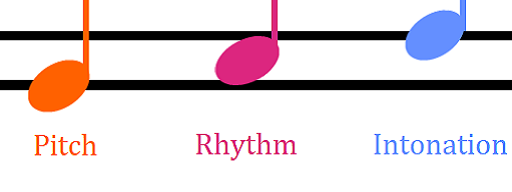
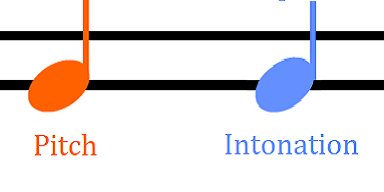
Help/home page text changed, rhythm removed from key

diff --git a/src/components/helppage.tsx b/src/components/helppage.tsx
@@ -26,24 +26,28 @@ export function HelpPage({
     return (
         <div>
             <h2>Welcome to the Help Page!</h2>
-            <div style={{margin: "10px", padding: "10px", backgroundColor: "#fcfcd2", borderRadius: "10px"}}>This site is meant to help students practice their music reading and listening capabilities.<br/>
-                On the Exercises page, you'll find a list of all the exercises currently uploaded to the site.<br/>
-                You can use the "tags" and "difficulty" fields to sort and find the right exercise.<br/>
-                After finding the right one, simply click the exercise to open it!<br/>
-                A piece of score and an audio player will show up. The score will always be correct.<br/>
-                Your job is to click the notes on the score where you think an error is present in the sound. <br/>
-                Click a note multiple times to change which type of error you believe is present.<br/>
-                A key will be present on each exercise to remind you which color corresponds to which error.<br/>
-                This key is also included here: <br/>
+            <div style={{margin: "10px", padding: "10px", backgroundColor: "#fcfcd2", borderRadius: "10px"}}>
+            This site is meant to help you practice your error detection skills.<br/>
+            On the Exercises page, you’ll find a list the exercises currently uploaded to the site. <br/>
+            You can use the different filters to sort and find appropriately challenging exercises for you (e.g. if you are new to this, consider starting with: intonation + 1 voice + level 1 + drone). <br/>
+            Clicking on the “drone” checkbox will find exercises that have a drone on tonic. <br/>
+            Clicking on the “ensemble parts” checkbox will have multiple voices/instruments performing the same part (e.g., 3 different clarinets playing the top line, one of which will perform the error(s)). <br/>
+            After finding some exercises, simply click the exercise to open it! <br/>
+            A short excerpt of a score and an audio player will show up. Assume that the score will always be correct. <br/>
+            The Audio file will play a short intro (2 bars long) to let you entrain to the key, tempo, and meter (you can move the cursor to skip past this if you don’t need it). <br/>
+            Your job is to click on the notes where you hear something different from what is in the score. <br/>
+            Click a note multiple times to change which type of error you hear. <br/>
+            A key will be present on each exercise to remind you which color corresponds to which kind of error.<br/>
+            This key is also included here: <br/>
                 <div>
                     <img
                     alt="note-color-key"
                     src={noteKey}
-                    width="300"
-                    height="112"
+                    width="250"
+                    height="125"
                     />
                 </div>
-                After selecting all errors, click "Check Answers" to receive feedback.<br/>
+            After selecting all errors, click "Check Answers" to receive feedback on how you did.<br/>
             </div>
             <div style={{margin: "6px"}}>
                 <input id="mng-pwd" placeholder="Enter admin password..."></input>

diff --git a/src/components/exercise.tsx b/src/components/exercise.tsx
@@ -533,7 +533,7 @@ export function Exercise({
                 <img
                     alt="note-color-key"
                     src={noteKey}
-                    width="20%"
+                    width="14%"
                     height="7%"
                     style={{display:"inline", marginLeft:"1vw"}}
                 />
@@ -565,7 +565,7 @@ export function Exercise({
                 <img
                     alt="note-color-key"
                     src={noteKey}
-                    width="20%"
+                    width="14%"
                     height="7%"
                     style={{display:"inline-flex", marginLeft: "1vw", marginTop: "-30vh"}}
                 />

diff --git a/src/components/homepage.tsx b/src/components/homepage.tsx
@@ -61,7 +61,7 @@ export function HomePage() {
           </div>
           <br></br>
           <h3>About</h3>
-          <div>This website is a music reading and listening practice tool! 
+          <div>This website is an error detection practice tool! 
             Choose a category of exercises above to get started, or visit the Help page to learn more.</div>
        
       </div>
